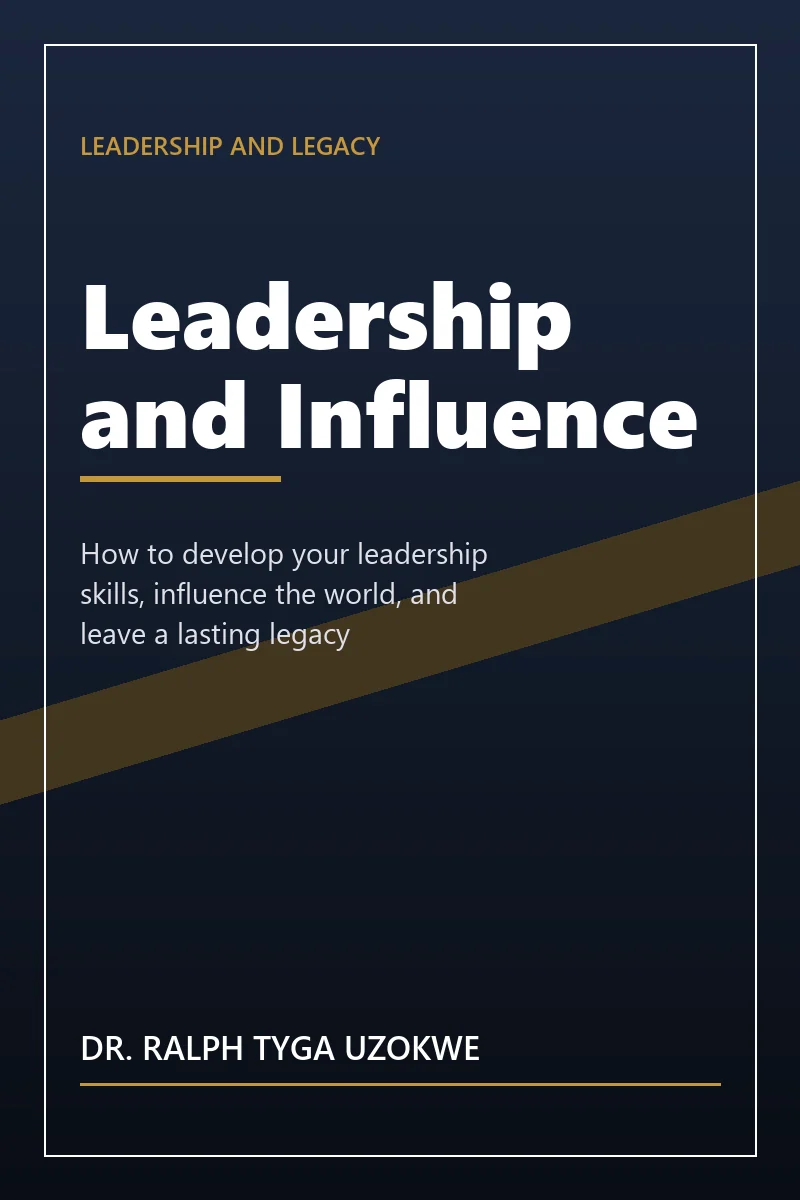
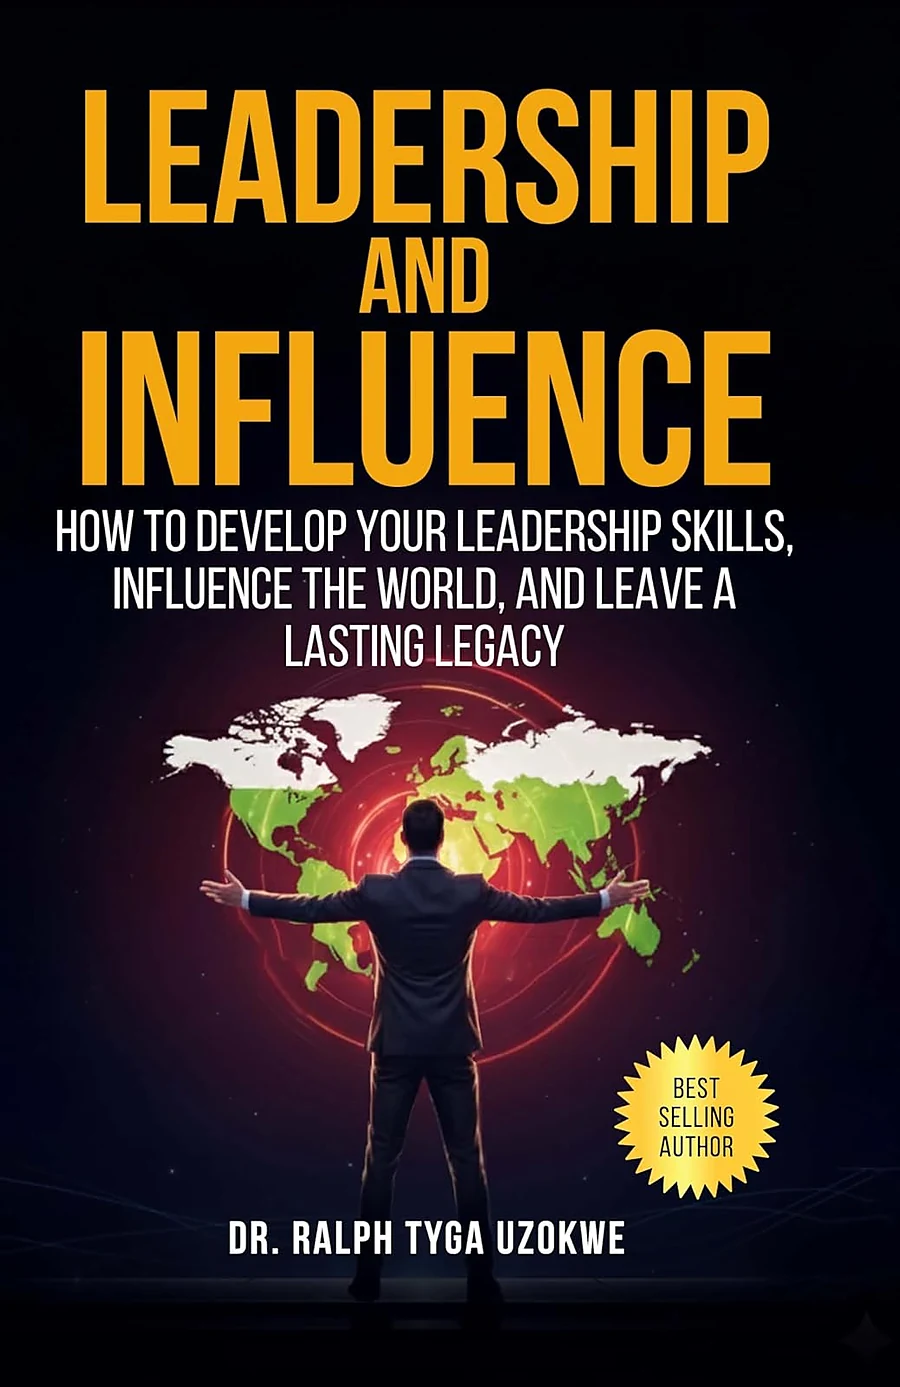
Real Amazon covers and direct product links for Leadership and Influence and Become Unstoppable

diff --git a/b/index.html b/b/index.html
@@ -631,7 +631,7 @@ var BOOKS = [
   { id:"caod", cover:A+"caod.webp", title:"Change, Adapt, or Die",
     sub:"How to Survive, Thrive, and Prosper in an Age of Relentless Change",
     genre:"Business and change", year:"2026", pages:"231 pages", audio:"2:40",
-    price:"$24.99", ebook:"$9.99", amazon:STORE,
+    price:"$24.99", ebook:"$9.99", amazon:"https://www.amazon.com/dp/B0FDB89LG2",
     short:"For the reader who can feel the ground shifting and does not know which move to make first.",
     summary:["Sixty years of business history, decade by decade, told through the people who lived it. Kodak invented the digital camera and locked it in a drawer. Blockbuster laughed a young Netflix out of the room. Nokia owned the world and lost it in five years.",
              "Every chapter follows the same discipline: how a giant rose, exactly where it refused to change, and what that refusal cost. The book closes with the six habits that show up in every survivor."],
@@ -662,7 +662,7 @@ var BOOKS = [
   { id:"leadership", cover:A+"leadership.webp", title:"Leadership and Influence",
     sub:"How to develop your leadership skills, influence the world, and leave a lasting legacy",
     genre:"Leadership", year:"2026", pages:"Available now", audio:"2:20",
-    price:"$22.99", ebook:"$9.99", amazon:STORE,
+    price:"$22.99", ebook:"$9.99", amazon:"https://www.amazon.com/dp/B0GX2SSKC7",
     short:"For the person who holds the title but can feel that the room is not truly following.",
     summary:["Authority is given. Influence is earned, and it is earned in the small moments nobody records: how you handle the bad quarter, who gets the credit in the meeting, what you do when the right decision costs you personally.",
              "This book separates the two, then rebuilds the second deliberately: presence, judgement, the ability to be trusted with bad news, and the long habit of building people who outgrow you."],
@@ -672,7 +672,7 @@ var BOOKS = [
   { id:"unstoppable", cover:A+"unstoppable.webp", title:"Become Unstoppable and Irresistible",
     sub:"Powerful hidden strategies to achieve your goals and manifest your personal destiny",
     genre:"Success and destiny", year:"2026", pages:"Hardcover and paperback", audio:"2:25",
-    price:"$24.99", ebook:"$9.99", amazon:STORE,
+    price:"$24.99", ebook:"$9.99", amazon:"https://www.amazon.com/dp/B0FDB89LG2",
     short:"For the person who keeps starting and keeps stalling in the same place.",
     summary:["Attraction is not luck and it is not charm. It is the compound result of what you decide, what you repeat, and who you become while nobody is watching.",
              "The book works through desire, discipline, the company you keep, and the strategies that quietly make a person hard to ignore and harder to stop."],

diff --git a/c/index.html b/c/index.html
@@ -631,7 +631,7 @@ var BOOKS = [
   { id:"caod", cover:A+"caod.webp", title:"Change, Adapt, or Die",
     sub:"How to Survive, Thrive, and Prosper in an Age of Relentless Change",
     genre:"Business and change", year:"2026", pages:"231 pages", audio:"2:40",
-    price:"$24.99", ebook:"$9.99", amazon:STORE,
+    price:"$24.99", ebook:"$9.99", amazon:"https://www.amazon.com/dp/B0FDB89LG2",
     short:"For the reader who can feel the ground shifting and does not know which move to make first.",
     summary:["Sixty years of business history, decade by decade, told through the people who lived it. Kodak invented the digital camera and locked it in a drawer. Blockbuster laughed a young Netflix out of the room. Nokia owned the world and lost it in five years.",
              "Every chapter follows the same discipline: how a giant rose, exactly where it refused to change, and what that refusal cost. The book closes with the six habits that show up in every survivor."],
@@ -662,7 +662,7 @@ var BOOKS = [
   { id:"leadership", cover:A+"leadership.webp", title:"Leadership and Influence",
     sub:"How to develop your leadership skills, influence the world, and leave a lasting legacy",
     genre:"Leadership", year:"2026", pages:"Available now", audio:"2:20",
-    price:"$22.99", ebook:"$9.99", amazon:STORE,
+    price:"$22.99", ebook:"$9.99", amazon:"https://www.amazon.com/dp/B0GX2SSKC7",
     short:"For the person who holds the title but can feel that the room is not truly following.",
     summary:["Authority is given. Influence is earned, and it is earned in the small moments nobody records: how you handle the bad quarter, who gets the credit in the meeting, what you do when the right decision costs you personally.",
              "This book separates the two, then rebuilds the second deliberately: presence, judgement, the ability to be trusted with bad news, and the long habit of building people who outgrow you."],
@@ -672,7 +672,7 @@ var BOOKS = [
   { id:"unstoppable", cover:A+"unstoppable.webp", title:"Become Unstoppable and Irresistible",
     sub:"Powerful hidden strategies to achieve your goals and manifest your personal destiny",
     genre:"Success and destiny", year:"2026", pages:"Hardcover and paperback", audio:"2:25",
-    price:"$24.99", ebook:"$9.99", amazon:STORE,
+    price:"$24.99", ebook:"$9.99", amazon:"https://www.amazon.com/dp/B0FDB89LG2",
     short:"For the person who keeps starting and keeps stalling in the same place.",
     summary:["Attraction is not luck and it is not charm. It is the compound result of what you decide, what you repeat, and who you become while nobody is watching.",
              "The book works through desire, discipline, the company you keep, and the strategies that quietly make a person hard to ignore and harder to stop."],

diff --git a/d/index.html b/d/index.html
@@ -631,7 +631,7 @@ var BOOKS = [
   { id:"caod", cover:A+"caod.webp", title:"Change, Adapt, or Die",
     sub:"How to Survive, Thrive, and Prosper in an Age of Relentless Change",
     genre:"Business and change", year:"2026", pages:"231 pages", audio:"2:40",
-    price:"$24.99", ebook:"$9.99", amazon:STORE,
+    price:"$24.99", ebook:"$9.99", amazon:"https://www.amazon.com/dp/B0FDB89LG2",
     short:"For the reader who can feel the ground shifting and does not know which move to make first.",
     summary:["Sixty years of business history, decade by decade, told through the people who lived it. Kodak invented the digital camera and locked it in a drawer. Blockbuster laughed a young Netflix out of the room. Nokia owned the world and lost it in five years.",
              "Every chapter follows the same discipline: how a giant rose, exactly where it refused to change, and what that refusal cost. The book closes with the six habits that show up in every survivor."],
@@ -662,7 +662,7 @@ var BOOKS = [
   { id:"leadership", cover:A+"leadership.webp", title:"Leadership and Influence",
     sub:"How to develop your leadership skills, influence the world, and leave a lasting legacy",
     genre:"Leadership", year:"2026", pages:"Available now", audio:"2:20",
-    price:"$22.99", ebook:"$9.99", amazon:STORE,
+    price:"$22.99", ebook:"$9.99", amazon:"https://www.amazon.com/dp/B0GX2SSKC7",
     short:"For the person who holds the title but can feel that the room is not truly following.",
     summary:["Authority is given. Influence is earned, and it is earned in the small moments nobody records: how you handle the bad quarter, who gets the credit in the meeting, what you do when the right decision costs you personally.",
              "This book separates the two, then rebuilds the second deliberately: presence, judgement, the ability to be trusted with bad news, and the long habit of building people who outgrow you."],
@@ -672,7 +672,7 @@ var BOOKS = [
   { id:"unstoppable", cover:A+"unstoppable.webp", title:"Become Unstoppable and Irresistible",
     sub:"Powerful hidden strategies to achieve your goals and manifest your personal destiny",
     genre:"Success and destiny", year:"2026", pages:"Hardcover and paperback", audio:"2:25",
-    price:"$24.99", ebook:"$9.99", amazon:STORE,
+    price:"$24.99", ebook:"$9.99", amazon:"https://www.amazon.com/dp/B0FDB89LG2",
     short:"For the person who keeps starting and keeps stalling in the same place.",
     summary:["Attraction is not luck and it is not charm. It is the compound result of what you decide, what you repeat, and who you become while nobody is watching.",
              "The book works through desire, discipline, the company you keep, and the strategies that quietly make a person hard to ignore and harder to stop."],

diff --git a/e/index.html b/e/index.html
@@ -631,7 +631,7 @@ var BOOKS = [
   { id:"caod", cover:A+"caod.webp", title:"Change, Adapt, or Die",
     sub:"How to Survive, Thrive, and Prosper in an Age of Relentless Change",
     genre:"Business and change", year:"2026", pages:"231 pages", audio:"2:40",
-    price:"$24.99", ebook:"$9.99", amazon:STORE,
+    price:"$24.99", ebook:"$9.99", amazon:"https://www.amazon.com/dp/B0FDB89LG2",
     short:"For the reader who can feel the ground shifting and does not know which move to make first.",
     summary:["Sixty years of business history, decade by decade, told through the people who lived it. Kodak invented the digital camera and locked it in a drawer. Blockbuster laughed a young Netflix out of the room. Nokia owned the world and lost it in five years.",
              "Every chapter follows the same discipline: how a giant rose, exactly where it refused to change, and what that refusal cost. The book closes with the six habits that show up in every survivor."],
@@ -662,7 +662,7 @@ var BOOKS = [
   { id:"leadership", cover:A+"leadership.webp", title:"Leadership and Influence",
     sub:"How to develop your leadership skills, influence the world, and leave a lasting legacy",
     genre:"Leadership", year:"2026", pages:"Available now", audio:"2:20",
-    price:"$22.99", ebook:"$9.99", amazon:STORE,
+    price:"$22.99", ebook:"$9.99", amazon:"https://www.amazon.com/dp/B0GX2SSKC7",
     short:"For the person who holds the title but can feel that the room is not truly following.",
     summary:["Authority is given. Influence is earned, and it is earned in the small moments nobody records: how you handle the bad quarter, who gets the credit in the meeting, what you do when the right decision costs you personally.",
              "This book separates the two, then rebuilds the second deliberately: presence, judgement, the ability to be trusted with bad news, and the long habit of building people who outgrow you."],
@@ -672,7 +672,7 @@ var BOOKS = [
   { id:"unstoppable", cover:A+"unstoppable.webp", title:"Become Unstoppable and Irresistible",
     sub:"Powerful hidden strategies to achieve your goals and manifest your personal destiny",
     genre:"Success and destiny", year:"2026", pages:"Hardcover and paperback", audio:"2:25",
-    price:"$24.99", ebook:"$9.99", amazon:STORE,
+    price:"$24.99", ebook:"$9.99", amazon:"https://www.amazon.com/dp/B0FDB89LG2",
     short:"For the person who keeps starting and keeps stalling in the same place.",
     summary:["Attraction is not luck and it is not charm. It is the compound result of what you decide, what you repeat, and who you become while nobody is watching.",
              "The book works through desire, discipline, the company you keep, and the strategies that quietly make a person hard to ignore and harder to stop."],

diff --git a/f/index.html b/f/index.html
@@ -631,7 +631,7 @@ var BOOKS = [
   { id:"caod", cover:A+"caod.webp", title:"Change, Adapt, or Die",
     sub:"How to Survive, Thrive, and Prosper in an Age of Relentless Change",
     genre:"Business and change", year:"2026", pages:"231 pages", audio:"2:40",
-    price:"$24.99", ebook:"$9.99", amazon:STORE,
+    price:"$24.99", ebook:"$9.99", amazon:"https://www.amazon.com/dp/B0FDB89LG2",
     short:"For the reader who can feel the ground shifting and does not know which move to make first.",
     summary:["Sixty years of business history, decade by decade, told through the people who lived it. Kodak invented the digital camera and locked it in a drawer. Blockbuster laughed a young Netflix out of the room. Nokia owned the world and lost it in five years.",
              "Every chapter follows the same discipline: how a giant rose, exactly where it refused to change, and what that refusal cost. The book closes with the six habits that show up in every survivor."],
@@ -662,7 +662,7 @@ var BOOKS = [
   { id:"leadership", cover:A+"leadership.webp", title:"Leadership and Influence",
     sub:"How to develop your leadership skills, influence the world, and leave a lasting legacy",
     genre:"Leadership", year:"2026", pages:"Available now", audio:"2:20",
-    price:"$22.99", ebook:"$9.99", amazon:STORE,
+    price:"$22.99", ebook:"$9.99", amazon:"https://www.amazon.com/dp/B0GX2SSKC7",
     short:"For the person who holds the title but can feel that the room is not truly following.",
     summary:["Authority is given. Influence is earned, and it is earned in the small moments nobody records: how you handle the bad quarter, who gets the credit in the meeting, what you do when the right decision costs you personally.",
              "This book separates the two, then rebuilds the second deliberately: presence, judgement, the ability to be trusted with bad news, and the long habit of building people who outgrow you."],
@@ -672,7 +672,7 @@ var BOOKS = [
   { id:"unstoppable", cover:A+"unstoppable.webp", title:"Become Unstoppable and Irresistible",
     sub:"Powerful hidden strategies to achieve your goals and manifest your personal destiny",
     genre:"Success and destiny", year:"2026", pages:"Hardcover and paperback", audio:"2:25",
-    price:"$24.99", ebook:"$9.99", amazon:STORE,
+    price:"$24.99", ebook:"$9.99", amazon:"https://www.amazon.com/dp/B0FDB89LG2",
     short:"For the person who keeps starting and keeps stalling in the same place.",
     summary:["Attraction is not luck and it is not charm. It is the compound result of what you decide, what you repeat, and who you become while nobody is watching.",
              "The book works through desire, discipline, the company you keep, and the strategies that quietly make a person hard to ignore and harder to stop."],

diff --git a/index.html b/index.html
@@ -631,7 +631,7 @@ var BOOKS = [
   { id:"caod", cover:A+"caod.webp", title:"Change, Adapt, or Die",
     sub:"How to Survive, Thrive, and Prosper in an Age of Relentless Change",
     genre:"Business and change", year:"2026", pages:"231 pages", audio:"2:40",
-    price:"$24.99", ebook:"$9.99", amazon:STORE,
+    price:"$24.99", ebook:"$9.99", amazon:"https://www.amazon.com/dp/B0FDB89LG2",
     short:"For the reader who can feel the ground shifting and does not know which move to make first.",
     summary:["Sixty years of business history, decade by decade, told through the people who lived it. Kodak invented the digital camera and locked it in a drawer. Blockbuster laughed a young Netflix out of the room. Nokia owned the world and lost it in five years.",
              "Every chapter follows the same discipline: how a giant rose, exactly where it refused to change, and what that refusal cost. The book closes with the six habits that show up in every survivor."],
@@ -662,7 +662,7 @@ var BOOKS = [
   { id:"leadership", cover:A+"leadership.webp", title:"Leadership and Influence",
     sub:"How to develop your leadership skills, influence the world, and leave a lasting legacy",
     genre:"Leadership", year:"2026", pages:"Available now", audio:"2:20",
-    price:"$22.99", ebook:"$9.99", amazon:STORE,
+    price:"$22.99", ebook:"$9.99", amazon:"https://www.amazon.com/dp/B0GX2SSKC7",
     short:"For the person who holds the title but can feel that the room is not truly following.",
     summary:["Authority is given. Influence is earned, and it is earned in the small moments nobody records: how you handle the bad quarter, who gets the credit in the meeting, what you do when the right decision costs you personally.",
              "This book separates the two, then rebuilds the second deliberately: presence, judgement, the ability to be trusted with bad news, and the long habit of building people who outgrow you."],
@@ -672,7 +672,7 @@ var BOOKS = [
   { id:"unstoppable", cover:A+"unstoppable.webp", title:"Become Unstoppable and Irresistible",
     sub:"Powerful hidden strategies to achieve your goals and manifest your personal destiny",
     genre:"Success and destiny", year:"2026", pages:"Hardcover and paperback", audio:"2:25",
-    price:"$24.99", ebook:"$9.99", amazon:STORE,
+    price:"$24.99", ebook:"$9.99", amazon:"https://www.amazon.com/dp/B0FDB89LG2",
     short:"For the person who keeps starting and keeps stalling in the same place.",
     summary:["Attraction is not luck and it is not charm. It is the compound result of what you decide, what you repeat, and who you become while nobody is watching.",
              "The book works through desire, discipline, the company you keep, and the strategies that quietly make a person hard to ignore and harder to stop."],
